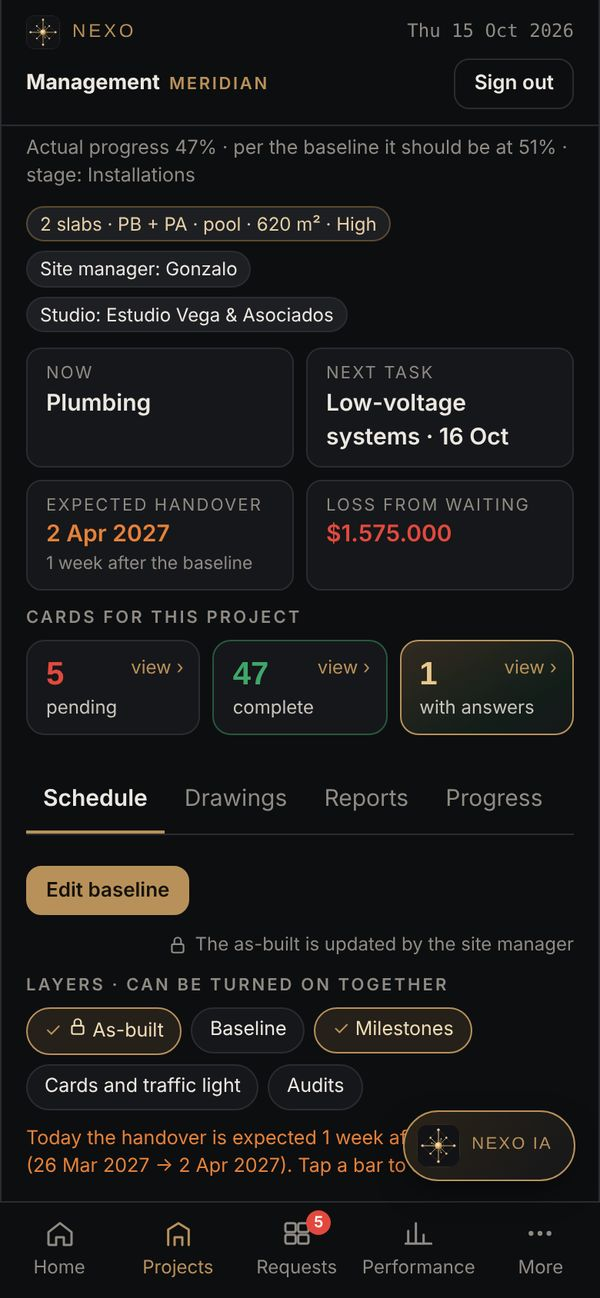
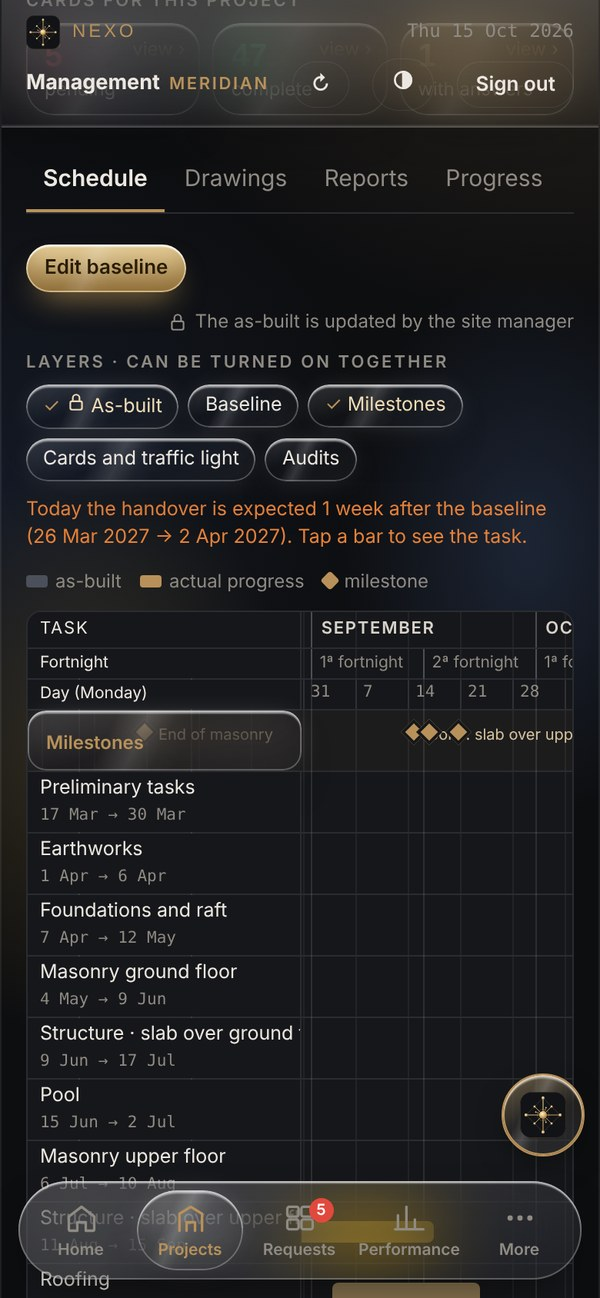
Demo: capturas con el nuevo entorno de vidrio, Centro de Operaciones en vidrio, ingreso de jefatura sin códigos en la demo
Claude-Session: https://claude.ai/code/session_017SKhonoXudQffZs98TnERF

diff --git a/index.html b/index.html
@@ -675,6 +675,24 @@ window.iaErrTxt=async function(r){var m="";try{var j=await r.clone().json();m=(j
   return "error "+r.status+hint+(m?": "+m.slice(0,140):"")};
 </script>
 <script src="landing-i18n.js"></script>
+<style id="glass-centro">
+/* Centro de Operaciones en vidrio brillante (mismo estilo que NEXO 2.0) */
+body.en-ventas::before{content:"";position:fixed;inset:0;z-index:4;pointer-events:none;mix-blend-mode:screen;opacity:.55;
+ background:radial-gradient(45% 35% at 12% 30%,rgba(201,162,75,.32),transparent 70%),radial-gradient(40% 32% at 88% 55%,rgba(91,128,200,.30),transparent 70%),radial-gradient(40% 30% at 55% 95%,rgba(201,162,75,.22),transparent 70%)}
+body.en-ventas .co-tab{position:relative;color:#EAEFF6;border:1px solid rgba(255,255,255,.34)!important;
+ background:linear-gradient(115deg,transparent 28%,rgba(255,255,255,.20) 41%,rgba(255,255,255,.04) 50%,transparent 60%),linear-gradient(158deg,rgba(255,255,255,.20),rgba(255,255,255,.04) 45%,rgba(255,255,255,.09))!important;
+ -webkit-backdrop-filter:blur(16px) saturate(1.9);backdrop-filter:blur(16px) saturate(1.9);
+ box-shadow:inset 0 2px 1px rgba(255,255,255,.55),inset 0 -8px 14px rgba(0,0,0,.22),0 8px 20px -8px rgba(0,0,0,.5)!important;border-radius:999px!important;text-shadow:0 1px 2px rgba(0,0,0,.4)}
+body.en-ventas .co-tab.act{color:#2a1c05;text-shadow:none;background:linear-gradient(115deg,transparent 28%,rgba(255,255,255,.5) 41%,transparent 58%),linear-gradient(180deg,rgba(244,218,160,.95),rgba(199,156,85,.8))!important;border-color:rgba(255,236,190,.7)!important;box-shadow:inset 0 2px 1px rgba(255,255,255,.85),inset 0 -8px 14px rgba(120,80,20,.28),0 10px 22px -8px rgba(199,156,85,.8)!important}
+body.en-ventas .co-tab i{box-shadow:0 0 8px currentColor}
+body.en-ventas [style*="background: rgb(255, 255, 255)"],body.en-ventas [style*="background:#fff"],body.en-ventas [style*="background: #fff"],body.en-ventas [style*="background:#FFFFFF"]{
+ background:linear-gradient(115deg,transparent 32%,rgba(255,255,255,.38) 43%,rgba(255,255,255,.08) 50%,transparent 58%),linear-gradient(158deg,rgba(255,255,255,.96),rgba(240,243,250,.86) 55%,rgba(255,255,255,.94))!important;
+ -webkit-backdrop-filter:blur(18px) saturate(1.8);backdrop-filter:blur(18px) saturate(1.8);
+ border:1px solid rgba(255,255,255,.9)!important;
+ box-shadow:inset 0 2px 1px #fff,inset 0 0 18px rgba(255,255,255,.5),inset 0 -10px 20px rgba(90,100,150,.14),0 0 22px -6px rgba(255,255,255,.35),0 16px 30px -14px rgba(0,0,0,.55)!important}
+body.en-ventas button:not(.co-tab):not(.act){-webkit-backdrop-filter:blur(12px) saturate(1.7);backdrop-filter:blur(12px) saturate(1.7)}
+body.en-ventas #barra-volver > button,body.en-ventas #barra-volver > a{background:linear-gradient(158deg,rgba(255,255,255,.18),rgba(255,255,255,.04) 50%,rgba(255,255,255,.08))!important;border:1px solid rgba(255,255,255,.32)!important;box-shadow:inset 0 1.5px 1px rgba(255,255,255,.5),inset 0 -6px 10px rgba(0,0,0,.2),0 6px 16px -8px rgba(0,0,0,.5)!important;color:#fff}
+</style>
 </head>
 <body class="no-js">
 

diff --git a/demo-nexo2.html b/demo-nexo2.html
@@ -3833,7 +3833,7 @@ setInterval(()=>{if(document.visibilityState==='visible')bajar()},45000);
 /* ===== DEMO: ingreso directo a cada panel, sin códigos ===== */
 try{localStorage.setItem('nexo2_dirauth','DIR-DEMO')}catch(e){}
 A.login=ds=>{const u=ds.u;if(u==='dir'){S.dirAuth='DIR-DEMO';login('dir')}else{S.sel=[];S.step=u==='aud'?'obrasAud':'obras';draw();scrollTo(0,0)}};
-{const _eo=A.entrarObras;A.entrarObras=function(){if(S.step!=='obrasAud')S.sel.forEach(id=>credGuardar('jefe',id,'DEMO'));return _eo.apply(this,arguments)}}
+{const _eo=A.entrarObras;A.entrarObras=function(){const r=S.step==='obrasAud'?'aud':'jefe';(S.sel||[]).forEach(id=>{guardarCod(r,id);credGuardar(r,id,'DEMO')});return _eo.apply(this,arguments)}}
 {const _pn=A.panel;A.panel=function(ds,el,e){if(ds.p==='cliente'){S.cobra=OBRAS[0].id;S.chat=[];login('cli');return}return _pn.apply(this,arguments)}}
 draw();
 
